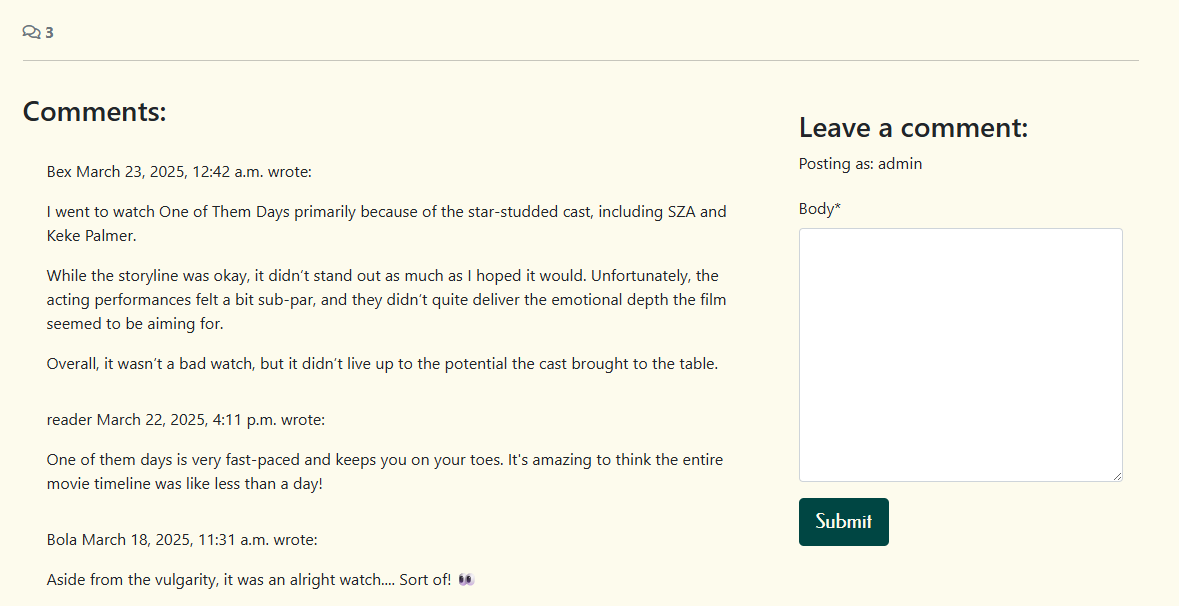
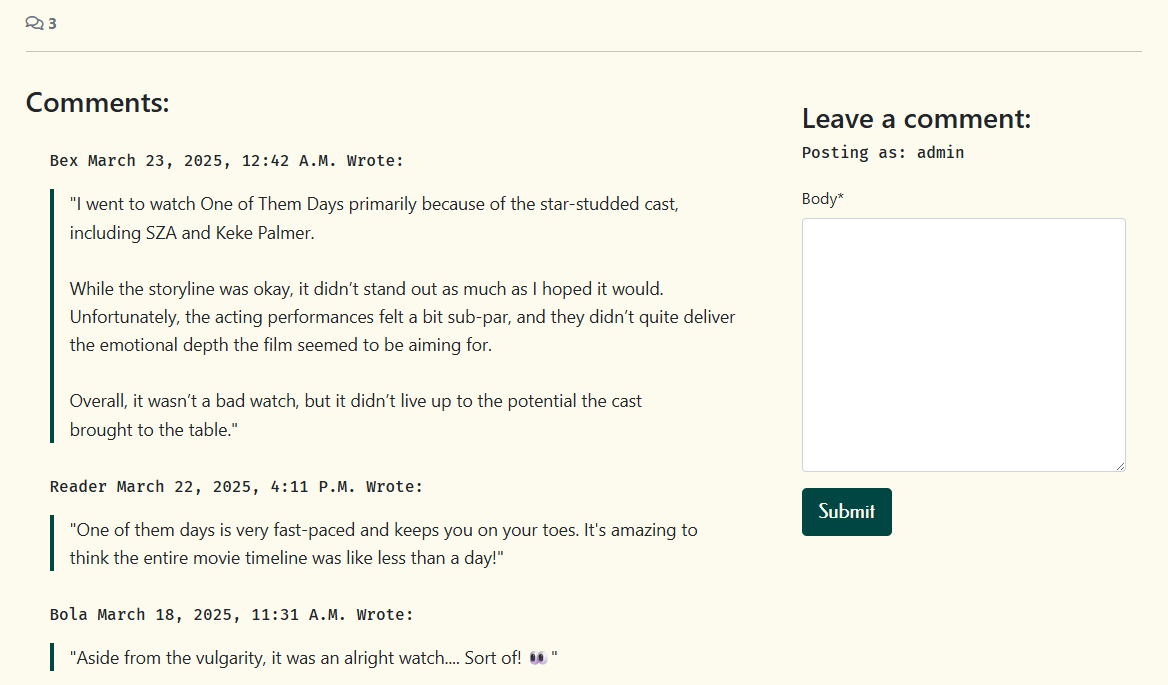
Update README Features

diff --git a/static/css/style.css b/static/css/style.css
@@ -29,10 +29,17 @@ h3 {
 .comment-author {
     font-family: "Fira Mono", monospace;
     font-weight: 500;
+    text-transform: capitalize;
 }
 
 .comment-text {
-    font-family: system-ui, -apple-system, BlinkMacSystemFont, 'Segoe UI', Roboto, Oxygen, Ubuntu, Cantarell, 'Open Sans', 'Helvetica Neue', sans-serif
+    font-family: system-ui, -apple-system, BlinkMacSystemFont, 'Segoe UI', Roboto, Oxygen, Ubuntu, Cantarell, 'Open Sans', 'Helvetica Neue', sans-serif;
+    font-weight: 500;
+}
+
+.posting-as-text {
+    font-family: "Fira Mono", monospace;
+    font-weight: 500;
 }
 
 .comment-quote {

diff --git a/review/templates/review/post_detail.html b/review/templates/review/post_detail.html
@@ -80,7 +80,7 @@
           <div class="card-body">
             {% if user.is_authenticated %}
             <h3>Leave a comment:</h3>
-            <p>Posting as: {{ user.username }}</p>
+            <p class="posting-as-text">Posting as: {{ user.username }}</p>
             <form id="commentForm" method="post" style="margin-top: 1.3em;">
               {{ comment_form | crispy }}
               {% csrf_token %}

diff --git a/staticfiles/css/style.css b/staticfiles/css/style.css
@@ -29,6 +29,7 @@ h3 {
 .comment-author {
     font-family: "Fira Mono", monospace;
     font-weight: 500;
+    text-transform: capitalize;
 }
 
 .comment-text {

diff --git a/README.md b/README.md
@@ -123,6 +123,7 @@ The colours used in this project was inspired by what they symbolise:
 The font used in this project was inspired by a desire to use an uncommon font without detracting from its readability. After a brief search on Google, the following Google Fonts imports were used:
 - 'Federo' as the main font for all text
 - 'Sans-Serif' as the default in case 'Federo' fails
+- 'Roboto Mono' as the text to be used in the comments section
 - 'Fira Mono' as the post-subtitle text containing author, date and time stamp
 
 [Back to Top](#ux)
@@ -170,13 +171,14 @@ The font used in this project was inspired by a desire to use an uncommon font w
 
 ### About
 <img src="images/filmreview-about.png" alt="About Page" style="width: 100%;"><br>
-- The 'About' page includes a blurb about the reason for the blog and seeks to give visitors some insight into the owner, and their passion for film.
+- The 'About' page includes a blurb about the reason for the blog and seeks to give visitors some insight into the writer, and their passion for film.
 
-- The page also includes a 'Film Review'submission form for users to submit film titles they specifically want reviewed and why.
+- The page also includes a 'Film Review' submission form for users to submit film titles they specifically want reviewed and why.
 
-- User authentication is applied to the form, disabling unregistered users from submitting film review requests. To encourage unregistered users at this point to register on the blogsite, quick access to 'Login' and 'Register' is provided within the form. Once the necessary action is complete, the user is then redirected here to pick up from where they left off.
+- User authentication is applied to the form, disabling unregistered users from submitting film review requests. This is to encourage unregistered users at this point to register on the blogsite. Quick access to both 'Login' and 'Register' links are provided within the form. Once the necessary action is complete, the user is then redirected here to pick up from where they left off.
 
-- Also included on this page is an invitation to users to 
+<img src="images/filmreview-about-logged-in.png" alt="About Page" style="width: 100%;"><br>
+- Also included on this page is an invitation for users to explore some of my other work.
 
 [Back to Top](#ux)
 
